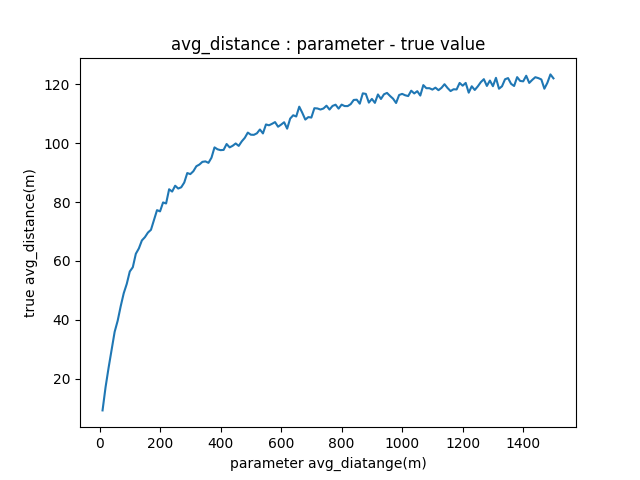
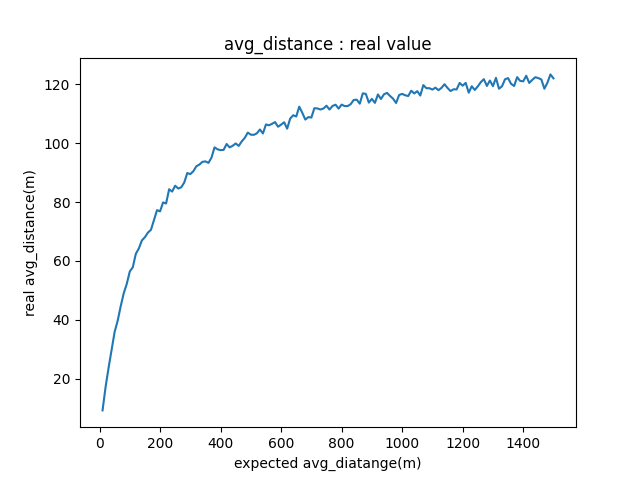
add compare real vs expected distance

Changed region(s): [[0.25, 0.0625, 0.75, 0.125], [0.3438, 0.9375, 0.6562, 1.0], [0.0312, 0.3438, 0.0625, 0.6562]]

diff --git a/distance_distribution_test/distance_gen_plot.py b/distance_distribution_test/distance_gen_plot.py
@@ -7,8 +7,17 @@ data = pd.read_csv("distance_gen_data.txt")
 
 data = data.groupby(['param'], as_index=False).mean()
 
+plt.figure(1)
+plt.plot(data['param']*1000, data['distance']*1000, label='real value')
+plt.plot(data['param']*1000, data['param']*1000, label='expected value')
+plt.xlabel('expected avg_diatange(m)')
+plt.ylabel('real avg_distance(m)')
+plt.title('avg_distance : expected - real')
+plt.legend()
+
+plt.figure(2)
 plt.plot(data['param']*1000, data['distance']*1000)
-plt.xlabel('parameter avg_diatange(m)')
-plt.ylabel('true avg_distance(m)')
-plt.title('avg_distance : parameter - true value')
+plt.xlabel('expected avg_diatange(m)')
+plt.ylabel('real avg_distance(m)')
+plt.title('avg_distance : real value')
 plt.show()
